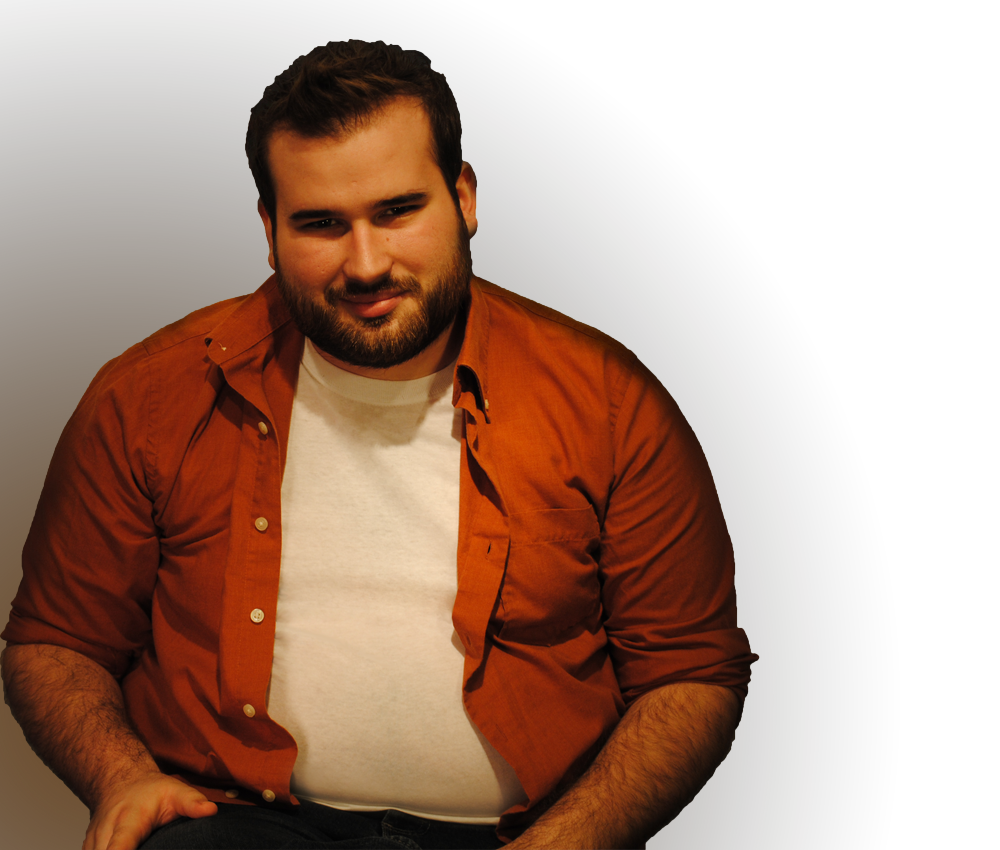
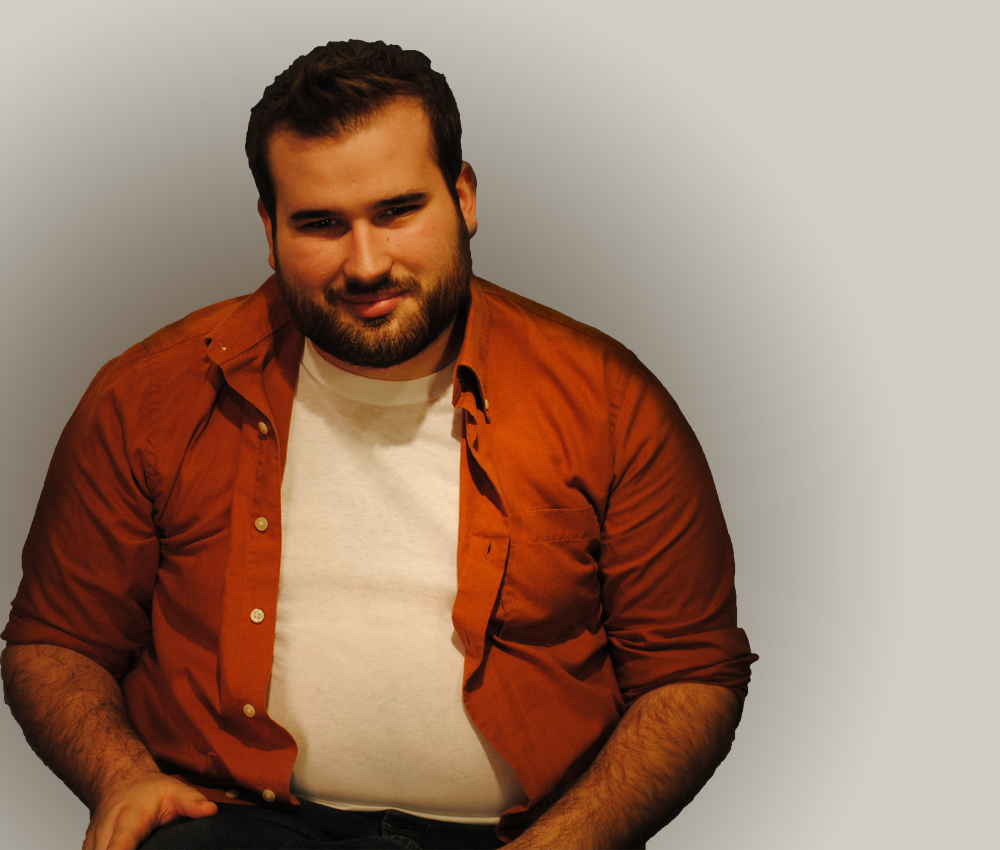
made content height reach to footer, unrouned bottom corners. changed background image

diff --git a/css/style.css b/css/style.css
@@ -105,9 +105,10 @@ header{
 	/* For IE 8*/
 	-ms-filter: "progid:DXImageTransform.Microsoft.gradient(startColorstr=#99000000, endColorstr=#99000000)";
 	padding: 10px;
-	border-radius: 15px;
+	border-top-left-radius: 15px;
+	border-top-right-radius: 15px;
 	width: 500px;
-	height: 410px;
+	height: 421px;
 	margin: 0 auto;
 }
 
